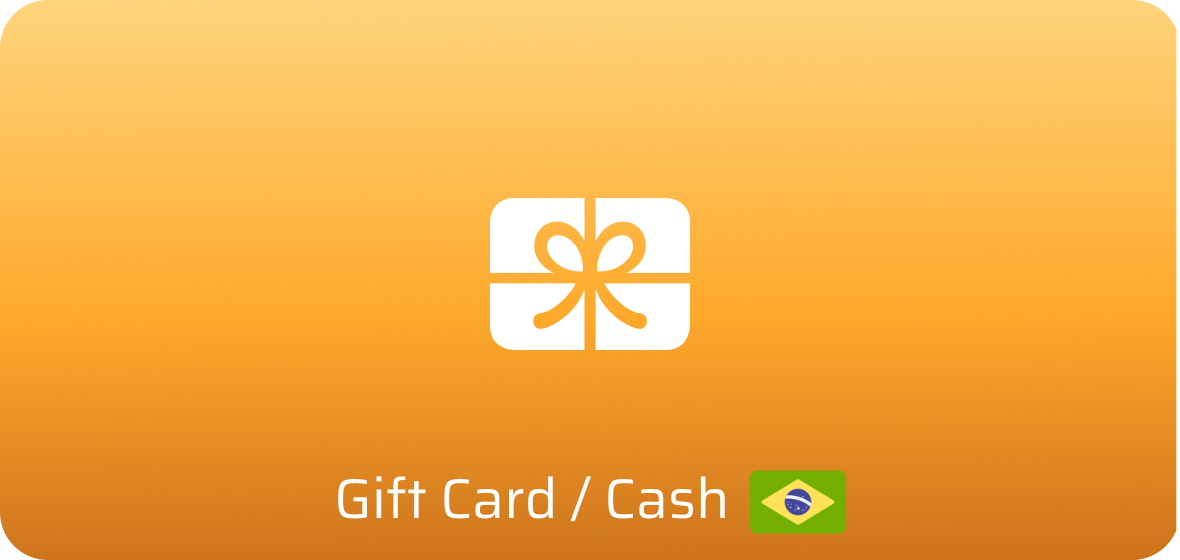
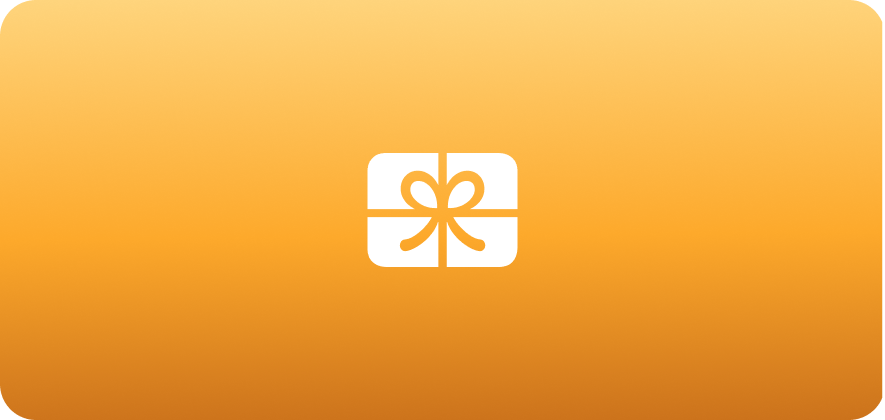
fix task

Changed region(s): [[0.2746, 0.8357, 0.7322, 0.9595], [0.3966, 0.3405, 0.6102, 0.65], [0.3966, 0.5881, 0.4271, 0.619]]

diff --git a/public/env.js b/public/env.js
@@ -1,73 +1,97 @@
 window.env = {
-  "NVM_INC": "/Users/mykolaperebenesuk/.nvm/versions/node/v18.19.0/include/node",
-  "MANPATH": "/Users/mykolaperebenesuk/.nvm/versions/node/v18.19.0/share/man:/opt/homebrew/share/man:/usr/share/man:/usr/local/share/man:/Users/mykolaperebenesuk/.nvm/versions/node/v18.19.0/share/man:/opt/homebrew/share/man::",
-  "TERM_PROGRAM": "vscode",
-  "NODE": "/Users/mykolaperebenesuk/.nvm/versions/node/v18.19.0/bin/node",
-  "INIT_CWD": "/Users/mykolaperebenesuk/Documents/Work/Frontend/cybersays-frontend",
-  "NVM_CD_FLAGS": "-q",
-  "TERM": "xterm-256color",
-  "SHELL": "/bin/zsh",
-  "HOMEBREW_REPOSITORY": "/opt/homebrew",
-  "TMPDIR": "/var/folders/v6/pmrfgb2j3hv1wwgdkm8kz12r0000gn/T/",
-  "npm_config_global_prefix": "/Users/mykolaperebenesuk/.nvm/versions/node/v18.19.0",
-  "TERM_PROGRAM_VERSION": "1.82.2",
-  "ZDOTDIR": "/Users/mykolaperebenesuk",
-  "ORIGINAL_XDG_CURRENT_DESKTOP": "undefined",
-  "MallocNanoZone": "0",
+  "ACSetupSvcPort": "23210",
+  "ACSvcPort": "17532",
+  "ALLUSERSPROFILE": "C:\\ProgramData",
+  "APPDATA": "C:\\Users\\danie\\AppData\\Roaming",
+  "CHROME_CRASHPAD_PIPE_NAME": "\\\\.\\pipe\\crashpad_316_ZMVCNMEJBFBRIBPA",
   "COLOR": "1",
-  "npm_config_noproxy": "",
-  "npm_config_local_prefix": "/Users/mykolaperebenesuk/Documents/Work/Frontend/cybersays-frontend",
-  "NVM_DIR": "/Users/mykolaperebenesuk/.nvm",
-  "USER": "mykolaperebenesuk",
-  "COMMAND_MODE": "unix2003",
-  "npm_config_globalconfig": "/Users/mykolaperebenesuk/.nvm/versions/node/v18.19.0/etc/npmrc",
-  "SSH_AUTH_SOCK": "/private/tmp/com.apple.launchd.gGhnBB1ATK/Listeners",
-  "__CF_USER_TEXT_ENCODING": "0x1F5:0x7:0x3E",
-  "npm_execpath": "/Users/mykolaperebenesuk/.nvm/versions/node/v18.19.0/lib/node_modules/npm/bin/npm-cli.js",
-  "PATH": "/Users/mykolaperebenesuk/Documents/Work/Frontend/cybersays-frontend/node_modules/.bin:/Users/mykolaperebenesuk/Documents/Work/Frontend/node_modules/.bin:/Users/mykolaperebenesuk/Documents/Work/node_modules/.bin:/Users/mykolaperebenesuk/Documents/node_modules/.bin:/Users/mykolaperebenesuk/node_modules/.bin:/Users/node_modules/.bin:/node_modules/.bin:/Users/mykolaperebenesuk/.nvm/versions/node/v18.19.0/lib/node_modules/npm/node_modules/@npmcli/run-script/lib/node-gyp-bin:/Users/mykolaperebenesuk/.nvm/versions/node/v18.19.0/bin:/opt/homebrew/bin:/opt/homebrew/sbin:/usr/local/bin:/System/Cryptexes/App/usr/bin:/usr/bin:/bin:/usr/sbin:/sbin:/var/run/com.apple.security.cryptexd/codex.system/bootstrap/usr/local/bin:/var/run/com.apple.security.cryptexd/codex.system/bootstrap/usr/bin:/var/run/com.apple.security.cryptexd/codex.system/bootstrap/usr/appleinternal/bin:/Library/Apple/usr/bin:/Users/mykolaperebenesuk/.nvm/versions/node/v18.19.0/bin:/opt/homebrew/bin:/opt/homebrew/sbin",
-  "npm_package_json": "/Users/mykolaperebenesuk/Documents/Work/Frontend/cybersays-frontend/package.json",
-  "_": "/Users/mykolaperebenesuk/Documents/Work/Frontend/cybersays-frontend/node_modules/.bin/react-dotenv",
-  "npm_config_userconfig": "/Users/mykolaperebenesuk/.npmrc",
-  "npm_config_init_module": "/Users/mykolaperebenesuk/.npm-init.js",
-  "USER_ZDOTDIR": "/Users/mykolaperebenesuk",
-  "__CFBundleIdentifier": "com.microsoft.VSCode",
-  "npm_command": "start",
-  "PWD": "/Users/mykolaperebenesuk/Documents/Work/Frontend/cybersays-frontend",
-  "npm_lifecycle_event": "start",
-  "EDITOR": "vi",
-  "npm_package_name": "cybersays-frontend",
-  "LANG": "en_US.UTF-8",
-  "npm_config_npm_version": "10.2.3",
-  "VSCODE_GIT_ASKPASS_EXTRA_ARGS": "--ms-enable-electron-run-as-node",
-  "XPC_FLAGS": "0x0",
-  "npm_config_node_gyp": "/Users/mykolaperebenesuk/.nvm/versions/node/v18.19.0/lib/node_modules/npm/node_modules/node-gyp/bin/node-gyp.js",
-  "npm_package_version": "0.1.0",
-  "XPC_SERVICE_NAME": "0",
-  "VSCODE_INJECTION": "1",
-  "SHLVL": "2",
-  "HOME": "/Users/mykolaperebenesuk",
-  "VSCODE_GIT_ASKPASS_MAIN": "/private/var/folders/v6/pmrfgb2j3hv1wwgdkm8kz12r0000gn/T/AppTranslocation/A3A9827C-3822-433E-8B87-7B3B92BB85E9/d/Visual Studio Code.app/Contents/Resources/app/extensions/git/dist/askpass-main.js",
-  "HOMEBREW_PREFIX": "/opt/homebrew",
-  "npm_config_cache": "/Users/mykolaperebenesuk/.npm",
-  "LOGNAME": "mykolaperebenesuk",
-  "npm_lifecycle_script": "react-dotenv && react-scripts start",
-  "VSCODE_GIT_IPC_HANDLE": "/var/folders/v6/pmrfgb2j3hv1wwgdkm8kz12r0000gn/T/vscode-git-590214eb95.sock",
-  "NVM_BIN": "/Users/mykolaperebenesuk/.nvm/versions/node/v18.19.0/bin",
-  "npm_config_user_agent": "npm/10.2.3 node/v18.19.0 darwin arm64 workspaces/false",
-  "VSCODE_GIT_ASKPASS_NODE": "/private/var/folders/v6/pmrfgb2j3hv1wwgdkm8kz12r0000gn/T/AppTranslocation/A3A9827C-3822-433E-8B87-7B3B92BB85E9/d/Visual Studio Code.app/Contents/Frameworks/Code Helper (Plugin).app/Contents/MacOS/Code Helper (Plugin)",
-  "GIT_ASKPASS": "/private/var/folders/v6/pmrfgb2j3hv1wwgdkm8kz12r0000gn/T/AppTranslocation/A3A9827C-3822-433E-8B87-7B3B92BB85E9/d/Visual Studio Code.app/Contents/Resources/app/extensions/git/dist/askpass.sh",
-  "INFOPATH": "/opt/homebrew/share/info:/opt/homebrew/share/info:",
-  "HOMEBREW_CELLAR": "/opt/homebrew/Cellar",
-  "npm_node_execpath": "/Users/mykolaperebenesuk/.nvm/versions/node/v18.19.0/bin/node",
-  "npm_config_prefix": "/Users/mykolaperebenesuk/.nvm/versions/node/v18.19.0",
   "COLORTERM": "truecolor",
+  "CommonProgramFiles": "C:\\Program Files\\Common Files",
+  "CommonProgramFiles(x86)": "C:\\Program Files (x86)\\Common Files",
+  "CommonProgramW6432": "C:\\Program Files\\Common Files",
+  "COMPUTERNAME": "DANICHOK",
+  "ComSpec": "C:\\WINDOWS\\system32\\cmd.exe",
+  "DriverData": "C:\\Windows\\System32\\Drivers\\DriverData",
+  "EDITOR": "C:\\WINDOWS\\notepad.exe",
+  "EFC_9772": "1",
+  "FPS_BROWSER_APP_PROFILE_STRING": "Internet Explorer",
+  "FPS_BROWSER_USER_PROFILE_STRING": "Default",
+  "GIT_ASKPASS": "c:\\Users\\danie\\AppData\\Local\\Programs\\Microsoft VS Code\\resources\\app\\extensions\\git\\dist\\askpass.sh",
+  "HOME": "C:\\Users\\danie",
+  "HOMEDRIVE": "C:",
+  "HOMEPATH": "\\Users\\danie",
+  "INIT_CWD": "J:\\React App\\GIT apps\\cybersays-frontend",
+  "LANG": "en_US.UTF-8",
+  "LOCALAPPDATA": "C:\\Users\\danie\\AppData\\Local",
+  "LOCAL_GIT_DIRECTORY": "C:\\Users\\danie\\AppData\\Local\\GitHubDesktop\\app-3.3.9\\resources\\app\\git",
+  "LOGONSERVER": "\\\\DANICHOK",
+  "NODE": "C:\\Program Files\\nodejs\\node.exe",
+  "NODE_EXE": "C:\\Program Files\\nodejs\\\\node.exe",
+  "NPM_CLI_JS": "C:\\Program Files\\nodejs\\\\node_modules\\npm\\bin\\npm-cli.js",
+  "npm_command": "start",
+  "npm_config_cache": "C:\\Users\\danie\\AppData\\Local\\npm-cache",
+  "npm_config_globalconfig": "C:\\Users\\danie\\AppData\\Roaming\\npm\\etc\\npmrc",
+  "npm_config_global_prefix": "C:\\Users\\danie\\AppData\\Roaming\\npm",
+  "npm_config_init_module": "C:\\Users\\danie\\.npm-init.js",
+  "npm_config_local_prefix": "J:\\React App\\GIT apps\\cybersays-frontend",
+  "npm_config_metrics_registry": "https://registry.npmjs.org/",
+  "npm_config_node_gyp": "C:\\Program Files\\nodejs\\node_modules\\npm\\node_modules\\node-gyp\\bin\\node-gyp.js",
+  "npm_config_noproxy": "",
+  "npm_config_prefix": "C:\\Users\\danie\\AppData\\Roaming\\npm",
+  "npm_config_userconfig": "C:\\Users\\danie\\.npmrc",
+  "npm_config_user_agent": "npm/9.5.1 node/v18.16.0 win32 x64 workspaces/false",
+  "npm_execpath": "C:\\Program Files\\nodejs\\node_modules\\npm\\bin\\npm-cli.js",
+  "npm_lifecycle_event": "start",
+  "npm_lifecycle_script": "react-dotenv && react-scripts start",
+  "npm_node_execpath": "C:\\Program Files\\nodejs\\node.exe",
+  "npm_package_json": "J:\\React App\\GIT apps\\cybersays-frontend\\package.json",
+  "npm_package_name": "cybersays-frontend",
+  "npm_package_version": "0.1.0",
+  "NPM_PREFIX_NPM_CLI_JS": "C:\\Users\\danie\\AppData\\Roaming\\npm\\node_modules\\npm\\bin\\npm-cli.js",
+  "NUMBER_OF_PROCESSORS": "12",
+  "OneDrive": "C:\\Users\\danie\\OneDrive",
+  "ORIGINAL_XDG_CURRENT_DESKTOP": "undefined",
+  "OS": "Windows_NT",
+  "Path": "J:\\React App\\GIT apps\\cybersays-frontend\\node_modules\\.bin;J:\\React App\\GIT apps\\node_modules\\.bin;J:\\React App\\node_modules\\.bin;J:\\node_modules\\.bin;C:\\Program Files\\nodejs\\node_modules\\npm\\node_modules\\@npmcli\\run-script\\lib\\node-gyp-bin;C:\\ProgramData\\Oracle\\Java\\javapath;C:\\WINDOWS\\system32;C:\\WINDOWS;C:\\WINDOWS\\System32\\Wbem;C:\\WINDOWS\\System32\\WindowsPowerShell\\v1.0\\;C:\\WINDOWS\\System32\\OpenSSH\\;C:\\Program Files\\nodejs\\;C:\\Program Files\\NVIDIA Corporation\\NVIDIA NvDLISR;C:\\Program Files\\dotnet\\;C:\\Program Files\\Git\\cmd;C:\\Program Files (x86)\\NVIDIA Corporation\\PhysX\\Common;C:\\Users\\danie\\AppData\\Local\\Microsoft\\WindowsApps;C:\\Users\\danie\\AppData\\Local\\Programs\\Microsoft VS Code\\bin;C:\\Users\\danie\\AppData\\Roaming\\npm;C:\\Users\\danie\\AppData\\Local\\GitHubDesktop\\bin",
+  "PATHEXT": ".COM;.EXE;.BAT;.CMD;.VBS;.VBE;.JS;.JSE;.WSF;.WSH;.MSC;.CPL",
+  "PROCESSOR_ARCHITECTURE": "AMD64",
+  "PROCESSOR_IDENTIFIER": "Intel64 Family 6 Model 151 Stepping 2, GenuineIntel",
+  "PROCESSOR_LEVEL": "6",
+  "PROCESSOR_REVISION": "9702",
+  "ProgramData": "C:\\ProgramData",
+  "ProgramFiles": "C:\\Program Files",
+  "ProgramFiles(x86)": "C:\\Program Files (x86)",
+  "ProgramW6432": "C:\\Program Files",
+  "PROMPT": "$P$G",
+  "PSModulePath": "C:\\Users\\danie\\OneDrive\\Documents\\WindowsPowerShell\\Modules;C:\\Program Files\\WindowsPowerShell\\Modules;C:\\WINDOWS\\system32\\WindowsPowerShell\\v1.0\\Modules",
+  "PUBLIC": "C:\\Users\\Public",
+  "REACT_APP_API_URL": "https://www.cybersays.club",
+  "REACT_APP_CHAT_URL": "https://dev.cybersays.club",
+  "REACT_APP_DISCORD_CLIENT_ID": "1125125402302615703",
+  "REACT_APP_DISCORD_REDIRECT_URL": "http://localhost:3000/auth/discord/callback",
+  "REACT_APP_FACEBOOK_APP_ID": "356492313416801",
+  "REACT_APP_GOOGLE_CLIENT_ID": "572517381232-l7cci9an60u4tmk5r4pnu4vc0jupu760.apps.googleusercontent.com",
   "REACT_APP_MIXPANEL_PROJECT_ID": "3161931",
   "REACT_APP_MIXPANEL_PROJECT_TOKEN": "89006de594136c4a791fc8e9286a3d46",
   "REACT_APP_RECAPTCHA_SITE_KEY": "6LdBDYYpAAAAAO4s_BETKy1EATil7gb8qMB5sAxg",
-  "REACT_APP_GOOGLE_CLIENT_ID": "572517381232-l7cci9an60u4tmk5r4pnu4vc0jupu760.apps.googleusercontent.com",
-  "REACT_APP_FACEBOOK_APP_ID": "356492313416801",
-  "REACT_APP_API_URL": "https://dev.cybersays.club",
-  "REACT_APP_CHAT_URL": "https://dev.cybersays.club",
-  "REACT_APP_DISCORD_REDIRECT_URL": "https://dev.cybersays.club/auth/discord/callback",
-  "REACT_APP_DISCORD_CLIENT_ID": "1125125402302615703"
+  "RlsSvcPort": "22112",
+  "SESSIONNAME": "Console",
+  "SystemDrive": "C:",
+  "SystemRoot": "C:\\WINDOWS",
+  "TEMP": "C:\\Users\\danie\\AppData\\Local\\Temp",
+  "TERM_PROGRAM": "vscode",
+  "TERM_PROGRAM_VERSION": "1.87.0",
+  "TMP": "C:\\Users\\danie\\AppData\\Local\\Temp",
+  "USERDOMAIN": "DANICHOK",
+  "USERDOMAIN_ROAMINGPROFILE": "DANICHOK",
+  "USERNAME": "danie",
+  "USERPROFILE": "C:\\Users\\danie",
+  "VSCODE_GIT_ASKPASS_EXTRA_ARGS": "",
+  "VSCODE_GIT_ASKPASS_MAIN": "c:\\Users\\danie\\AppData\\Local\\Programs\\Microsoft VS Code\\resources\\app\\extensions\\git\\dist\\askpass-main.js",
+  "VSCODE_GIT_ASKPASS_NODE": "C:\\Users\\danie\\AppData\\Local\\Programs\\Microsoft VS Code\\Code.exe",
+  "VSCODE_GIT_IPC_HANDLE": "\\\\.\\pipe\\vscode-git-4e9266502d-sock",
+  "VSCODE_INJECTION": "1",
+  "VSCODE_NONCE": "58b5cd5c-c85d-4dde-9bb2-ced9d9fa935c",
+  "windir": "C:\\WINDOWS",
+  "ZES_ENABLE_SYSMAN": "1"
 };

diff --git a/src/Pages/CyberSaysPages/Double.jsx b/src/Pages/CyberSaysPages/Double.jsx
@@ -105,9 +105,9 @@ function Double({ languageData, user, imLiveURL, setOpen, setDoubleComplete }) {
                 <div className='max-w-[600px] m-auto block lg:hidden'>
                     {
                         taskStatus !== null && <>
-                            <TaskCard tasks={JSON.parse(user?.completed_tasks)} data={languageData?.tasks?.task1} setSelectedTask={setSelectedTask} state={taskStatus[0]} manualSelect={selectedTask !== null} open={selectedTask === 1} background={design === '0' ? '#B9A1E1' : '#4F97CB'} rounded={'rounded-t-[20px] '} index={1} imLiveURL={imLiveURL} />
-                            <TaskCard tasks={JSON.parse(user?.completed_tasks)} data={languageData?.tasks?.task2} setSelectedTask={setSelectedTask} state={taskStatus[1]} manualSelect={selectedTask !== null} open={selectedTask === 2} background={design === '0' ? '#93CC8E' : '#32B28C'} rounded={'rounded-t-[20px] '} index={2} imLiveURL={imLiveURL} />
-                            <TaskCard tasks={JSON.parse(user?.completed_tasks)} data={languageData?.tasks?.task3} setSelectedTask={setSelectedTask} state={taskStatus[2]} manualSelect={selectedTask !== null} open={selectedTask === 3} background={design === '0' ? '#EA7C7C' : '#D76666'} rounded={'rounded-[20px] !pb-[5px]'} index={3} imLiveURL={imLiveURL} />
+                            <TaskCard tasks={JSON.parse(user?.completed_tasks)} languageData={languageData} data={languageData?.tasks?.task1} setSelectedTask={setSelectedTask} state={taskStatus[0]} manualSelect={selectedTask !== null} open={selectedTask === 1} background={design === '0' ? '#B9A1E1' : '#4F97CB'} rounded={'rounded-t-[20px] '} index={1} imLiveURL={imLiveURL} />
+                            <TaskCard tasks={JSON.parse(user?.completed_tasks)} languageData={languageData} data={languageData?.tasks?.task2} setSelectedTask={setSelectedTask} state={taskStatus[1]} manualSelect={selectedTask !== null} open={selectedTask === 2} background={design === '0' ? '#93CC8E' : '#32B28C'} rounded={'rounded-t-[20px] '} index={2} imLiveURL={imLiveURL} />
+                            <TaskCard tasks={JSON.parse(user?.completed_tasks)} languageData={languageData} data={languageData?.tasks?.task3} setSelectedTask={setSelectedTask} state={taskStatus[2]} manualSelect={selectedTask !== null} open={selectedTask === 3} background={design === '0' ? '#EA7C7C' : '#D76666'} rounded={'rounded-[20px] !pb-[5px]'} index={3} imLiveURL={imLiveURL} />
                             {/*<TaskCard user={user} tasks={JSON.parse(user?.completed_tasks)} data={languageData?.tasks?.task4} setSelectedTask={setSelectedTask} state={taskStatus[3]} manualSelect={selectedTask !== null} open={selectedTask === 4} background={design === '0' ? '#76C2E3' : '#9E64D8'} rounded={'rounded-[20px] !pb-[5px]'} index={4} imLiveURL={imLiveURL} />*/}
                         </>
                     }
@@ -115,9 +115,9 @@ function Double({ languageData, user, imLiveURL, setOpen, setDoubleComplete }) {
                 <div className='max-w-[920px] m-auto lg:flex hidden '>
                     {
                         taskStatus !== null && <>
-                            <TaskCardDesktop tasks={JSON.parse(user?.completed_tasks)} data={languageData?.tasks?.task1} setSelectedTask={setSelectedTask} state={taskStatus[0]} manualSelect={selectedTask !== null} open={selectedTask === 1} background={design === '0' ? '#B9A1E1' : '#4F97CB'} rounded={'rounded-[20px]'} mt={'mt-5'} index={1} imLiveURL={imLiveURL} />
-                            <TaskCardDesktop tasks={JSON.parse(user?.completed_tasks)} data={languageData?.tasks?.task2} setSelectedTask={setSelectedTask} state={taskStatus[1]} manualSelect={selectedTask !== null} open={selectedTask === 2} background={design === '0' ? '#93CC8E' : '#32B28C'} rounded={'rounded-[20px]'} index={2} imLiveURL={imLiveURL} />
-                            <TaskCardDesktop setDoubleComplete={setDoubleComplete} tasks={JSON.parse(user?.completed_tasks)} data={languageData?.tasks?.task3} setSelectedTask={setSelectedTask} state={taskStatus[2]} manualSelect={selectedTask !== null} open={selectedTask === 3} background={design === '0' ? '#EA7C7C' : '#D76666'} rounded={'rounded-[20px] !pb-[5px]'} index={3} imLiveURL={imLiveURL} />
+                            <TaskCardDesktop languageData={languageData} tasks={JSON.parse(user?.completed_tasks)} data={languageData?.tasks?.task1} setSelectedTask={setSelectedTask} state={taskStatus[0]} manualSelect={selectedTask !== null} open={selectedTask === 1} background={design === '0' ? '#B9A1E1' : '#4F97CB'} rounded={'rounded-[20px]'} mt={'mt-5'} index={1} imLiveURL={imLiveURL} />
+                            <TaskCardDesktop languageData={languageData} tasks={JSON.parse(user?.completed_tasks)} data={languageData?.tasks?.task2} setSelectedTask={setSelectedTask} state={taskStatus[1]} manualSelect={selectedTask !== null} open={selectedTask === 2} background={design === '0' ? '#93CC8E' : '#32B28C'} rounded={'rounded-[20px]'} index={2} imLiveURL={imLiveURL} />
+                            <TaskCardDesktop languageData={languageData} setDoubleComplete={setDoubleComplete} tasks={JSON.parse(user?.completed_tasks)} data={languageData?.tasks?.task3} setSelectedTask={setSelectedTask} state={taskStatus[2]} manualSelect={selectedTask !== null} open={selectedTask === 3} background={design === '0' ? '#EA7C7C' : '#D76666'} rounded={'rounded-[20px] !pb-[5px]'} index={3} imLiveURL={imLiveURL} />
                             {/*<TaskCard user={user} tasks={JSON.parse(user?.completed_tasks)} data={languageData?.tasks?.task4} setSelectedTask={setSelectedTask} state={taskStatus[3]} manualSelect={selectedTask !== null} open={selectedTask === 4} background={design === '0' ? '#76C2E3' : '#9E64D8'} rounded={'rounded-[20px] !pb-[5px]'} index={4} imLiveURL={imLiveURL} />*/}
                         </>
                     }

diff --git a/src/Components/CircleNavigation.jsx b/src/Components/CircleNavigation.jsx
@@ -10,7 +10,7 @@ import link4 from '../images/CyberSaysPage/iconRefferals.png'
 import link5 from '../images/CyberSaysPage/iconTicket.png'
 import { useDesign } from '../Helpers/Design/DesignContext'
 
-function CircleNavigation({ setActivePageIndex, activePageIndex }) {
+function CircleNavigation({ setActivePageIndex, activePageIndex, languageData }) {
 
     const { design } = useDesign()
 
@@ -88,7 +88,7 @@ function CircleNavigation({ setActivePageIndex, activePageIndex }) {
                         <div className={`text-black relative text-center duration-200 flex justify-center ${currentSlide === 0 ? 'top-0' : 'top-8 md:top-[60px]'}`}>
                             <div>
                                 <img className={`w-[32px] h-[32px] md:w-[48px] md:h-[48px] m-auto ${design === '0' ? '' : currentSlide === 0 ? 'border-[2px] border-[#FDA52F] rounded-full' : 'border-[2px] border-[#A2DBF0] rounded-full'}  `} src={design === '0' ? link1 : require('../images/NewDesign/circleMenu/page1.png')} alt="link1" />
-                                <p className='saira text-[12px] md:text-[16px] font-semibold md:mt-2'>Homepage</p>
+                                <p className='saira text-[12px] md:text-[16px] font-semibold md:mt-2'>{languageData?.NamePage1}</p>
                             </div>
                         </div>
                     </SwiperSlide>
@@ -96,7 +96,7 @@ function CircleNavigation({ setActivePageIndex, activePageIndex }) {
                         <div className={`text-black relative text-center duration-200 flex justify-center  m-auto  ${currentSlide === 1 ? 'top-0' : 'top-8 md:top-[60px]'}`}>
                             <div>
                                 <img className={`w-[32px] h-[32px] md:w-[48px] md:h-[48px] m-auto ${design === '0' ? '' : currentSlide === 1 ? 'border-[2px] border-[#FDA52F] rounded-full' : 'border-[2px] border-[#A2DBF0] rounded-full'}`} src={design === '0' ? link3 : require('../images/NewDesign/circleMenu/page3.png')} alt="link3" />
-                                <p className='saira text-[12px] md:text-[16px] font-semibold md:mt-2 '>Double your money</p>
+                                <p className='saira text-[12px] md:text-[16px] font-semibold md:mt-2 '>{languageData?.NamePage2}</p>
                             </div>
                         </div>
                     </SwiperSlide>
@@ -104,7 +104,7 @@ function CircleNavigation({ setActivePageIndex, activePageIndex }) {
                         <div className={`text-black relative text-center duration-200 flex justify-center  ${currentSlide === 2 ? 'top-0' : 'top-8 md:top-[60px]'}`}>
                             <div>
                                 <img className={`w-[32px] h-[32px] md:w-[48px] ${design === '0' ? 'md:h-[42px]' : 'md:h-[48px]'}  m-auto ${design === '0' ? '' : currentSlide === 2 ? 'border-[2px] border-[#FDA52F] rounded-full' : 'border-[2px] border-[#A2DBF0] rounded-full'}`} src={design === '0' ? link5 : require('../images/NewDesign/circleMenu/page2.png')} alt="link5" />
-                                <p className='saira text-[12px] md:text-[16px] font-semibold md:mt-2'>Vegas Weekend</p>
+                                <p className='saira text-[12px] md:text-[16px] font-semibold md:mt-2'>{languageData?.NamePage3}</p>
                             </div>
                         </div>
                     </SwiperSlide>
@@ -112,7 +112,7 @@ function CircleNavigation({ setActivePageIndex, activePageIndex }) {
                         <div className={`text-black relative text-center duration-200 flex justify-center  ${currentSlide === 3 ? 'top-0' : 'top-8 md:top-[60px]'}`}>
                             <div>
                                 <img className={`w-[32px] h-[32px] md:w-[48px] md:h-[48px] m-auto ${design === '0' ? '' : currentSlide === 3 ? 'border-[2px] border-[#FDA52F] rounded-full' : 'border-[2px] border-[#A2DBF0] rounded-full'}`} src={design === '0' ? link2 : require('../images/NewDesign/circleMenu/page2.png')} alt="link2" />
-                                <p className='saira text-[12px] md:text-[16px] font-semibold md:mt-2'>Competition</p>
+                                <p className='saira text-[12px] md:text-[16px] font-semibold md:mt-2'>{languageData?.NamePage4}</p>
                             </div>
                         </div>
                     </SwiperSlide>
@@ -120,7 +120,7 @@ function CircleNavigation({ setActivePageIndex, activePageIndex }) {
                         <div className={`text-black relative text-center duration-200 flex justify-center ${currentSlide === 4 ? 'top-0' : 'top-8 md:top-[60px]'}`}>
                             <div>
                                 <img className={`w-[32px] h-[32px] md:w-[48px]  md:h-[48px] m-auto ${design === '0' ? '' : currentSlide === 4 ? 'border-[2px] border-[#FDA52F] rounded-full' : 'border-[2px] border-[#A2DBF0] rounded-full'}`} src={design === '0' ? link4 : require('../images/NewDesign/circleMenu/page4.png')} alt="link4" />
-                                <p className='saira text-[12px] md:text-[16px] font-semibold md:mt-2'>My referrals</p>
+                                <p className='saira text-[12px] md:text-[16px] font-semibold md:mt-2'>{languageData?.NamePage5}</p>
                             </div>
                         </div>
                     </SwiperSlide>

diff --git a/src/Components/Transactions/Withdraw.jsx b/src/Components/Transactions/Withdraw.jsx
@@ -11,6 +11,7 @@ import userAPI from '../../Requests/user'
 import PromoImLive from './PromoImLive'
 import PromoModal from '../PromoModal'
 import ConfirmImLiveModal from './ConfirmImLive'
+import pt from '../../images/flags/flag-pt.png'
 
 
 function Withdraw({ user, setOpen, languageData, userCountry }) {
@@ -105,7 +106,7 @@ function Withdraw({ user, setOpen, languageData, userCountry }) {
                             step === 0 && <div>
                                 <p className='text-[18px] md:text-[32px] font-semibold text-center my-2'>{languageData?.withdrawTitle2}</p>
                                 <div className={`max-h-[320px]  max-w-[375px] md:max-w-[600px] m-auto`}>
-                                    <div className='flex flex-wrap  justify-center mt-2  m-auto'>
+                                    <div className='flex flex-wrap  justify-center mt-2  m-auto relative'>
                                         {paymentMethods.map((item, index) => (
                                             <div key={index} className='w-[50%] mb-2'>
                                                 <img
@@ -114,11 +115,13 @@ function Withdraw({ user, setOpen, languageData, userCountry }) {
                                                     src={item.image}
                                                     alt="social"
                                                 />
+                                                
                                             </div>
                                         ))}
                                         {
                                             user?.earned !== 0 && user?.earned > 0 && <PromoImLive languageData={languageData} />
                                         }
+                                        <p className='absolute saira font-normal text-[14px] left-[23px] bottom-[12px] flex items-center'>{languageData?.withdrawGiftTitle} <img className='w-[24px] ml-[5px]' src={pt} alt="pt" /></p>
                                     </div>
 
                                 </div>

diff --git a/src/Components/DoubleMoneyPage/TaskCardDesktop.jsx b/src/Components/DoubleMoneyPage/TaskCardDesktop.jsx
@@ -4,7 +4,7 @@ import done from '../../images/CyberSaysPage/card_done.png'
 import { useDesign } from '../../Helpers/Design/DesignContext'
 import mixpanel from 'mixpanel-browser'
 
-function TaskCardDesktop({ state, background, data, index, imLiveURL, rounded, open, manualSelect, setSelectedTask, tasks, user, mt }) {
+function TaskCardDesktop({ state, background, data, index, imLiveURL, rounded, open, manualSelect, setSelectedTask, tasks, user, mt,languageData }) {
 
     const { design } = useDesign()
 
@@ -86,7 +86,7 @@ function TaskCardDesktop({ state, background, data, index, imLiveURL, rounded, o
                     user_email: user?.email,
                     page: 'Double your Money'
                 });
-            }} className={`saira text-[14px] cursor-pointer underline text-center  pt-1 pb-0 font-semibold mb-[-5px]  ${linkCopied === true ? 'opacity-60' : ''}`}>Copy link</p>
+            }} className={`saira text-[14px] cursor-pointer underline text-center  pt-1 pb-0 font-semibold mb-[-5px]  ${linkCopied === true ? 'opacity-60' : ''}`}>{languageData?.CopyLink}</p>
         </>
     }
 
@@ -147,7 +147,7 @@ function TaskCardDesktop({ state, background, data, index, imLiveURL, rounded, o
 
     return (
 
-        <div onClick={e => setSelectedTask(index)} style={{ background: getBackground(), paddingBottom: getPaddingBottom(), marginTop: marginTop() }} className={`w-full rounded-t-[20px] ${rounded} bg-[#EAEAEA] bg-opacity-20 backdrop-blur-lg  se:p-[6px]  p-2 se:my-0 my-2 mx-1`}>
+        <div onClick={e => setSelectedTask(index)} style={{ background: getBackground(), paddingBottom: getPaddingBottom(), marginTop: marginTop() }} className={`w-full rounded-t-[20px] ${rounded} bg-[#EAEAEA] bg-opacity-20 backdrop-blur-lg  se:p-[6px]  p-2 se:my-0 my-2 mx-1 custom-borderTask  ${open ? design === '0' ? ' border-[3px]  !border-[#FFD700]' : 'border-[3px]  !border-[#A2DBF0]' : ''}`}>
 
 
             {

diff --git a/src/Components/TimeCounterDay.jsx b/src/Components/TimeCounterDay.jsx
@@ -31,7 +31,7 @@ function TimeCounterDay({ languageData, hidden, title, left, leftTitle, block, s
         <div>
             <p className={`text-[18px] timeCounter-title lg:text-[32px] font-semibold iphone:leading-[unset] se:leading-5 md:leading-[unset] lg:px-4 ${leftTitle}`}>{languageData?.timeCounterTitle2}</p>
             <div className={`lg:w-[300px] ${left} ${hidden}`}>
-                <div className='flex justify-center lg:justify-between items-center leading-5 gap-[18px]  mt-2 '>
+                <div className='flex justify-center lg:justify-between items-center leading-5 gap-[18px]  '>
                     <div className='text-center'>
                         <h2 className={`text-[18px] md:text-[24px] md:font-black ${design === '0' ? 'text-[#FFED63]' : 'gradient-timeCounter'}`}>{hoursRemaining}</h2>
                         <p className={`${design === '0' ? 'text-[#FFED63]' : 'gradient-timeCounter'} text-center font-semibold text-[12px]`}>{languageData?.timeCounterHours}</p>
@@ -48,7 +48,7 @@ function TimeCounterDay({ languageData, hidden, title, left, leftTitle, block, s
                     </div>
                 </div>
             </div>
-            <div className={`flex justify-center ${block}`}>
+            <div className={`flex justify-center ${block} mt-[-6px]`}>
                 <Link to='/contest-terms' target='_blank' > <p className={`text-center text-[12px] sm:text-[14px] saira font-semibold underline cursor-pointer ${design === '0' ? 'text-[#FFED63]' : 'gradient-link '}`}>{languageData?.timeCounterLink}</p></Link>
             </div>
         </div>

diff --git a/src/Components/Buttons/DiscordButton.jsx b/src/Components/Buttons/DiscordButton.jsx
@@ -4,11 +4,11 @@ import discord from '../../images/landing/icons/discord.png'
 
 function DiscordButton({ languageData }) {
     return (
-        <div className='w-[33%] lg:w-full'>
+        <div className='w-[50%] lg:w-full'>
             <Link  to={`https://discord.com/api/oauth2/authorize?client_id=${process.env.REACT_APP_DISCORD_CLIENT_ID}&response_type=token&redirect_uri=${process.env.REACT_APP_DISCORD_REDIRECT_URL}&scope=identify+guilds.join+email`}>
-                <button className='w-full flex gap-2 lg:gap-4  lg:max-w-[160px] bg-[#1E1E1E] px-1.5 lg:px-3 py-2 lg:py-1 rounded-[8px] lg:rounded-[12px] items-center justify-center' type='button'>
+                <button className='w-full flex gap-2 lg:gap-4   bg-[#1E1E1E] px-1.5 lg:px-3 py-3  rounded-[8px] lg:rounded-[12px] items-center justify-center' type='button'>
                     <img className='w-4 lg:w-6 h-4 lg:h-6' src={discord} alt="discord" />
-                    <p className='text-[10px] lg:text-[14px] poppins text-[#888888] font-semibold text-left saira' dangerouslySetInnerHTML={{ __html: languageData?.authDiscord + ' <span class="saira" style="color:#FFFFFF">Discord</span>' }} />
+                    <p className='text-[12px] lg:text-[14px] poppins text-[#888888] font-semibold text-left saira' dangerouslySetInnerHTML={{ __html: languageData?.authDiscord + ' <span class="saira" style="color:#FFFFFF">Discord</span>' }} />
                 </button>
             </Link>
 

diff --git a/src/Components/Buttons/GoogleButton.jsx b/src/Components/Buttons/GoogleButton.jsx
@@ -23,9 +23,9 @@ function GoogleButton({ loginViaGoogle, languageData }) {
     return (
         <>
 
-            <button onClick={() => googleLogin()} type="button" className='w-[33%] lg:w-full gap-2 lg:gap-4  lg:max-w-[160px] flex bg-[#1E1E1E] px-2 lg:px-3 py-2 lg:py-1 rounded-[8px] lg:rounded-[12px] items-center justify-center'>
+            <button onClick={() => googleLogin()} type="button" className='w-[50%] lg:w-full gap-2 lg:gap-4  flex bg-[#1E1E1E] px-2 lg:px-3 py-3  rounded-[8px] lg:rounded-[12px] items-center justify-center'>
                 <img className='w-4 lg:w-6 h-4 lg:h-6' src={google} alt="Google" />
-                <p className='text-[10px] lg:text-[14px] text-[#888888] font-semibold text-left saira' dangerouslySetInnerHTML={{ __html: languageData?.authGoogle + ' <span class="saira" style="color:#FFFFFF">Google</span>' }} />
+                <p className='text-[12px] lg:text-[14px] text-[#888888] font-semibold text-left saira' dangerouslySetInnerHTML={{ __html: languageData?.authGoogle + ' <span class="saira" style="color:#FFFFFF">Google</span>' }} />
             </button>
 
             {

diff --git a/src/Pages/CyberSaysPages/Competition.jsx b/src/Pages/CyberSaysPages/Competition.jsx
@@ -69,7 +69,7 @@ function Competition({ imLiveURL, user, setLeaderboardModal, loading, setLoading
                 <div className='bg-[#EAEAEA] bg-opacity-20 backdrop-blur-lg rounded-[14px] text-center se:py-1 mac:!py-0 px-2 mac-center:w-[600px] sm:max-w-[600px] m-auto mt-[10px] md:mt-0'>
                     <p className='text-center text-[18px] sm:text-[22px]  font-bold'>{languageData?.competitionTitle}</p>
                 </div>
-                <div className='bg-[#EAEAEA] bg-opacity-20 backdrop-blur-lg rounded-[14px] text-center se:py-1 iphone:py-2  px-2 mac-center:w-[600px] sm:max-w-[600px] m-auto mt-2 iphone:mt-[55px] contentForCompetitions md:mt-[60px]'>
+                <div className='bg-[#EAEAEA] bg-opacity-20 backdrop-blur-lg rounded-[14px] text-center se:py-1 iphone:py-2  px-2 mac-center:w-[600px] sm:max-w-[600px] m-auto mt-2 iphone:mt-[40px] contentForCompetitions md:mt-[60px]'>
                     {/*<p className='text-center text-[14px] sm:text-[32px] mac:!text-[24px] font-semibold'>{languageData?.competitionTitle} {siteData?.currentDay}</p>*/}
 
 

diff --git a/src/Pages/Auth/LoginForm.jsx b/src/Pages/Auth/LoginForm.jsx
@@ -141,7 +141,7 @@ function LoginForm({ languageData, referralID }) {
                             <div className={`${showButtons ? '' : 'hidden'}`}>
                                 <div className='flex items-center justify-between w-full mt-2 lg:mt-4 gap-1 lg:gap-4'>
                                     <GoogleAuth loginViaGoogle={loginViaGoogle} languageData={languageData} />
-                                    <FacebookButton loginViaFacebook={loginViaFacebook} languageData={languageData} />
+                                    {/*<FacebookButton loginViaFacebook={loginViaFacebook} languageData={languageData} />*/}
                                     <DiscordButton languageData={languageData} />
                                 </div>
                                 

diff --git a/src/Components/LeaderboardList.jsx b/src/Components/LeaderboardList.jsx
@@ -57,7 +57,7 @@ function LeaderboardList({ leaderboardData, languageData, day }) {
                 {
                     leaderboardData.length < 4
                         ? <div className='w-full flex justify-center my-8'>
-                            <p>There are no more users</p>
+                            <p>{languageData?.leaderboardsNotUser}There are no more users</p>
                         </div>
 
                         : leaderboardData.slice(3).map((user, index) => {

diff --git a/src/Pages/Main.jsx b/src/Pages/Main.jsx
@@ -346,7 +346,7 @@ function Main({ languageData }) {
                     </SwiperSlide>
 
                 </Swiper>
-                <CircleNavigation activePageIndex={activePageIndex} setActivePageIndex={setActivePageIndex} />
+                <CircleNavigation languageData={languageData} activePageIndex={activePageIndex} setActivePageIndex={setActivePageIndex} />
 
             </div>
         )
